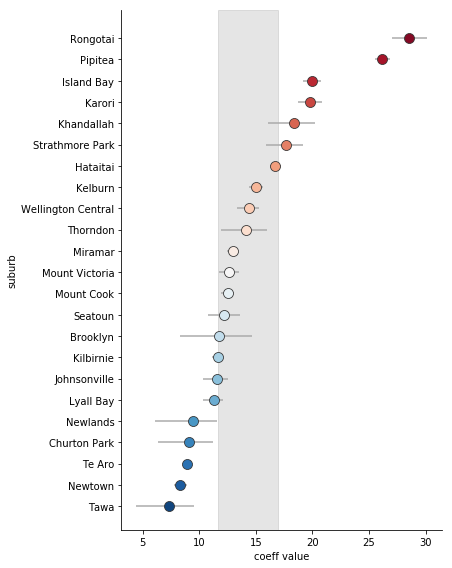
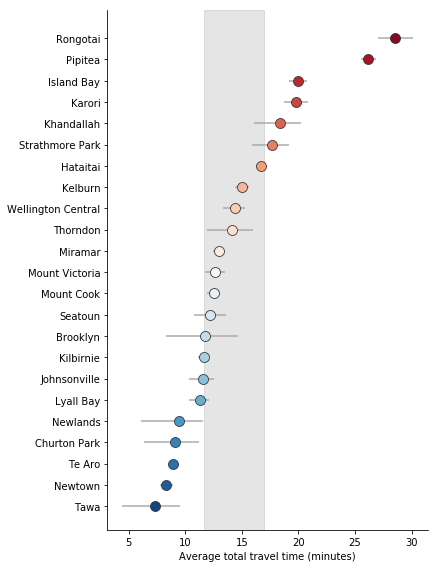
Added units to main figure. Removing table of posterior predictive checks as it doesn't show up well.

diff --git a/_posts/2019-03-12-Modelling-accessibility-by-suburb.md b/_posts/2019-03-12-Modelling-accessibility-by-suburb.md
@@ -47,8 +47,6 @@ To do this analysis, we need to overcome some technical aspects:
 This section is all about writing Bayesian models with Stan.
 
 
-## Normal Model
-
 ```python
 uni_norm_model = su.load_or_generate_stan_model('stan', 'univariate_normal')
 lower_trunc_norm_model = su.load_or_generate_stan_model('stan', 'lower_truncated_univariate_normal')
@@ -56,6 +54,8 @@ trunc_norm_model = su.load_or_generate_stan_model('stan', 'truncated_univariate_
 
 ```
 
+
+## Normal Model
 
     Inference for Stan model: anon_model_cc3fc1beb21cbbe7b94ad66105c98210.
     4 chains, each with iter=2000; warmup=1000; thin=1;
@@ -87,14 +87,17 @@ trunc_norm_model = su.load_or_generate_stan_model('stan', 'truncated_univariate_
 
 
 ### Checking model performance with posterior predictive
+![png](../images/2019-03-12-Modelling-accessibility-by-suburb/output_34_0.png)
+- Good fit
 
+![png](../images/2019-03-12-Modelling-accessibility-by-suburb/output_33_0.png)
+ - Reasonable fit
+ - Doesn't capture modes - likely due to the fact that Karori is a very large suburb
 
-| Model vs. Data | Fit summary |
-|:---: | ----- |
-![png](../images/2019-03-12-Modelling-accessibility-by-suburb/output_34_0.png) |<ul><li>Good fit</li></ul>|
-![png](../images/2019-03-12-Modelling-accessibility-by-suburb/output_33_0.png) | <ul><li>Reasonable fit</li><li>Doesn't capture modes - likely due to the fact that Karori is a very large suburb</li><ul>|
-![png](../images/2019-03-12-Modelling-accessibility-by-suburb/output_35_0.png) | <ul><li>Poor fit</li><li>Model is overwhelmed by the large spike at 60 minutes</li><li>Makara is basically semi-rural and shouldn't be modelled the same as urban suburbs</ul>|
-
+![png](../images/2019-03-12-Modelling-accessibility-by-suburb/output_35_0.png)
+- Poor fit
+- Model is overwhelmed by the large spike at 60 minutes
+- Makara is basically semi-rural and shouldn't be modelled the same as urban suburbs
 
 
 ## Hierarchical modelling
